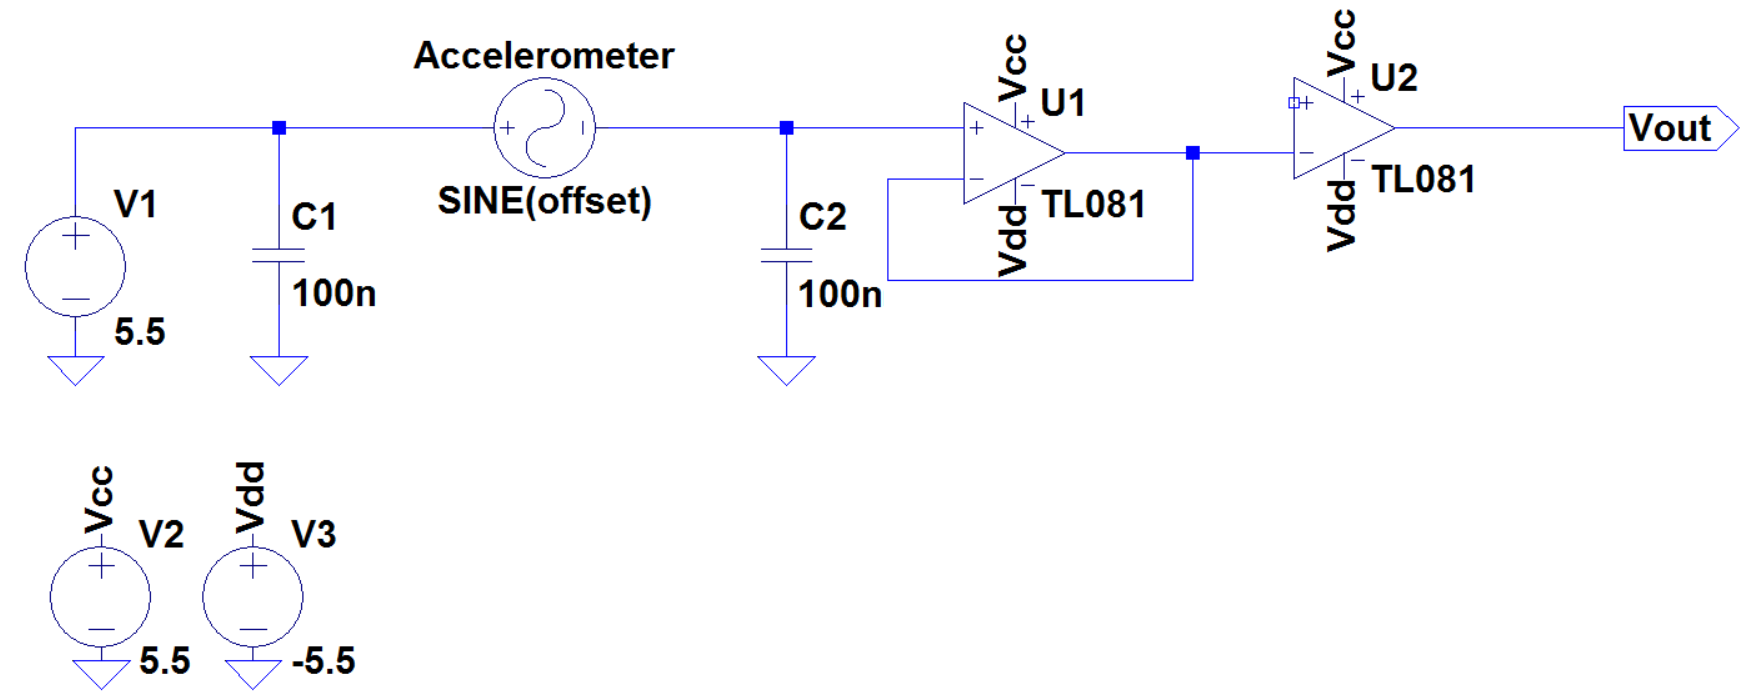
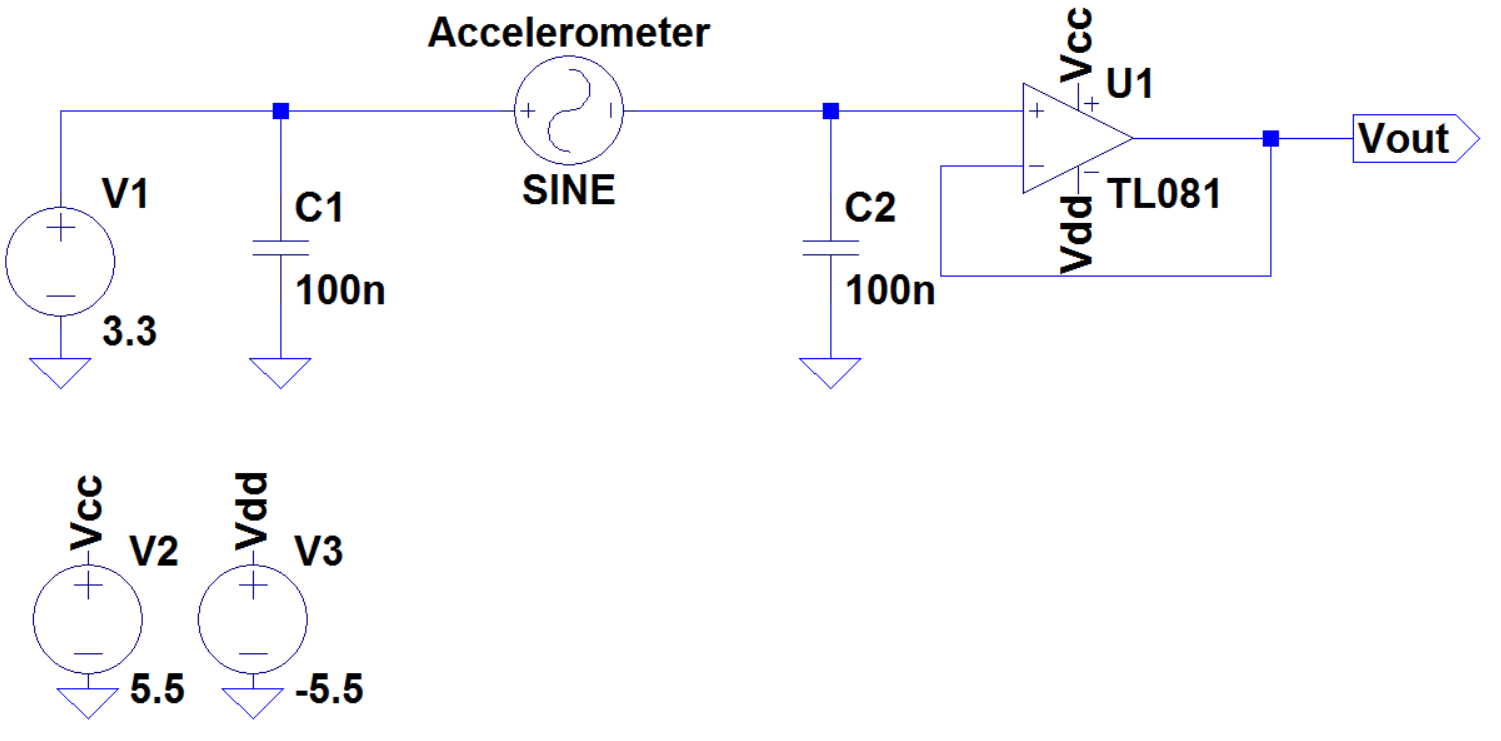
Mine opgaver

diff --git a/rapportAfsnit/eProblemloesning/Systembeskrivelse.tex b/rapportAfsnit/eProblemloesning/Systembeskrivelse.tex
@@ -29,7 +29,7 @@ Det valgte accelerometer af typen ADXL335, som fremgår af \figref{ADXL335}, er 
 	\label{ADXL335}
 \end{figure}
 
-\noindent Accelerometeret har en single-supply spændingsforsyning, der skal ligge mellem $1.8$ - $3.6$V. På accelerometeret er en regulator tilkoblet, som forhindrer en spændingsforsyning på over $3.3$V.  Arbejdsområdet ligger mellem $\pm3.6$g, og outputtet fra accelerometeret er maksimalt på $\pm1.188$V ift. accelerometerets indbyggede offset. Offsettet varierer efter spændingsforsyningen, men ligger ved $3$V forsyning på $1.5$V og beregnes ved $Off = Vs/2$. Båndbredden for x- og y-akserne ligger mellem $0.5$ til $1,600$Hz og for z-aksen mellem $0.5$ til $550$Hz. Støjen fra $X_{out}$ og $Y_{out}$ ligger normalt på $150\mu g/\sqrt{Hz}$ RMS, mens det for $Z_{out}$ ligger på $300\mu g/\sqrt{Hz}$ RMS. Denne enhed betyder, at den spektrale effekttæthed måles i $\mu g$ og dividerer dette med kvadratroden af båndbredden for signalet $\sqrt{Hz}$, hvilket giver RMS af accelerationsstøjen ved en temperatur på $25^\circ$C. Sensitiviteten afhænger, ligesom offsettet, af spændingsforsyningen, da accelerometeret er ratiometrisk\fxnote{NTK: Ratiometrisk vil sige, at output er direkte proportionelt med input.} og ligger ved $3$V forsyning på $300 mV/g$ med en tolerance på $\pm10\%$. Accelerometerets outputimpedans er $32K\Omega$ med en afvigelse på $\pm15\%$. \cite{Devices2009} %Outputtet ligger normalt ved -1.08g i X-aksen og  1.08g Y-aksen og 1.83 g ved Z-aksen. 
+\noindent Accelerometeret har en single-supply spændingsforsyning, der skal ligge mellem $1.8$ - $3.6$V. På accelerometeret er en regulator tilkoblet, som forhindrer en spændingsforsyning på over $3.3$V.  Arbejdsområdet ligger mellem $\pm3.6$g, og outputtet fra accelerometeret er maksimalt på $\pm1.188$V ift. accelerometerets indbyggede offset. Offsettet varierer efter spændingsforsyningen, men ligger ved $3$V forsyning på $1.5$V og beregnes ved $Off = Vs/2$. Båndbredden for x- og y-akserne ligger mellem $0.5$ til $1,600$Hz og for z-aksen mellem $0.5$ til $550$Hz. Støjen fra $X_{out}$ og $Y_{out}$ ligger normalt på $150\mu g/\sqrt{Hz}$ RMS, mens det for $Z_{out}$ ligger på $300\mu g/\sqrt{Hz}$ RMS. Denne enhed\fxnote{betyder, at den spektrale effekttæthed måles i $\mu g$ og dividerer dette med kvadratroden af båndbredden for signalet $\sqrt{Hz}$, hvilket} giver RMS af accelerationsstøjen ved en temperatur på $25^\circ$C. Sensitiviteten afhænger, ligesom offsettet, af spændingsforsyningen, da accelerometeret er ratiometrisk\fxnote{NTK: Ratiometrisk vil sige, at output er direkte proportionelt med input.} og ligger ved $3$V forsyning på $300 mV/g$ med en tolerance på $\pm10\%$. Accelerometerets outputimpedans er $32K\Omega$ med en afvigelse på $\pm15\%$. \cite{Devices2009} %Outputtet ligger normalt ved -1.08g i X-aksen og  1.08g Y-aksen og 1.83 g ved Z-aksen. 
 
 Når accelerometeret hældes til siden, vil en acceleration ske ift. tyngdekraften i en given retning, og dermed sker et udslag i volt fra referencepunktet ved en hældning på $0^{\circ}$. Hvis accelerometeret placeres i stilling $1$, som det fremgår til højre på \figref{ADXL335}, påvirkes x-aksen med $-1$g.\cite{Devices2009} \\
 På baggrund af sammenhængen mellem de enkelte parametre, der udtrykkes ved nedenstående ligninger, kan patientens hældning bestemmes.

diff --git a/rapportAfsnit/cProblemanalyse/Biofeedback.tex b/rapportAfsnit/cProblemanalyse/Biofeedback.tex
@@ -23,7 +23,7 @@ Ved brug af visuel feedback kræver det, at patienten kan registrere feedbacken 
 Biofeedback kan hjælpe patienter med at udvikle en bedre voluntær kontrol over kroppen samt genoptræne patienter til at bevare disse forbedringer uden brug af biofeedbacksystemet \cite{Prentice2007}. For at patienten kan modtage feedback, skal signalet måles på patienten og fortolkes. Der kan benyttes forskellige typer af sensorer til at opfange fysiologiske signaler fra patienterne, som kan deles ind i en fysiologisk og en biomekanisk del. \cite{Giggins2013}
 
 \subsection{Fysiologisk biofeedback}
-Fysiologisk biofeedback omfatter målinger på forskellige kropslige systemer. Det kan bl.a. måles på det neuromuskulære system, det kardiovaskulære system eller respirationssystemet. Fysiologisk feedback kan f.eks. anvendes til patienter med balanceproblemer baseret på elektromyografiske (EMG) målinger, hvor myoelektriske signaler omsættes til et elektrisk signal til patienten,  hvormed der kan opnås bevidsthed om svage muskler. Foruden EMG kan der anvendes hjerneaktivitet (EEG), øjenmuskelaktivitet (EOG) og hjerteaktivitet (EKG) til feedback til patienter med balanceproblemer, da disse måleparametre alle er dele af kroppens systemer og påvirkes, hvis kroppen er i ubalance. Sensoren, der benyttes, afhænger af, hvilken form for feedback der anvendes, samt hvad der ønskes målt på patienten. \cite{Prentice2007}
+Fysiologisk biofeedback omfatter målinger på forskellige kropslige systemer. Det kan bl.a. måles på det neuromuskulære system, det kardiovaskulære system eller respirationssystemet. Fysiologisk feedback kan f.eks. anvendes til patienter med balanceproblemer baseret på elektromyografiske (EMG) målinger, hvor myoelektriske signaler omsættes til et elektrisk signal til patienten,  hvormed der kan opnås bevidsthed om svage muskler. Foruden EMG kan der anvendes hjerneaktivitet (EEG) og øjenmuskelaktivitet (EOG) til feedback til patienter med balanceproblemer, da disse måleparametre alle er dele af kroppens systemer og påvirkes, hvis kroppen er i ubalance.\fxnote{NTK: EEG - forhøjet hjerneaktivitet visse steder i hjernen, da nogle centre ikke virker optimalt, så andre centre forsøger at kompensere. EOG - balanceprobelmer gør muligvis, at patienten har svært ved at fokusere, hvorfor øjnene vil køre rundt i hovedet" for at forsøge at finde et holdepunkt og skabe balance.} Sensoren, der benyttes, afhænger af, hvilken form for feedback der anvendes, samt hvad der ønskes målt på patienten. \cite{Prentice2007}
 
 %Desuden findes hjerterytme feedback, hvor patientens hjerterytme måles og udtrykkes på et udstyr der er synligt for patienten. Til patienter med sygdom i respirationssystemet kan anvendes respiratorisk feedback, som udtrykker værdier for de respiratoriske evner. \cite{Giggins2013} Foruden EMG, kan der næves hjerneaktivitet (EEG), øjenmuskelaktivitet (EOG) og hjerteaktivitet (EKG), som alle er en del af kroppens systemer, der kan blive påvirket, hvis kroppen er i ubalance. Hvilken sensor der skal bruges afhænger af, hvilken lidelse patienten har \cite{Prentice2007}.
 

diff --git a/rapportAfsnit/yBilag/PilotforsoegNy.tex b/rapportAfsnit/yBilag/PilotforsoegNy.tex
@@ -47,7 +47,7 @@ Opsætningen er udarbejdet både i LTspice og på breadboard \ref{pforsoeg1}. Op
 \begin{figure}[H]
 		\centering
 		\includegraphics[scale=0.4]{figures/Bilag/Test_opsaetning.PNG}
-		\caption{På figuren ses opsætningen i LTspice. Accerometeret er symboliseret med en sinuskurve med et DC offset svarende til den tilførte strømforsyning fratrukket offsettet fra accelerometeret ved $0$g påvirkning. Derudover angivet en amplitude svarende til den maksimale sensitivitet for accelerometeret, som findes i dette forsøg.}
+		\caption{På figuren ses opsætningen i LTspice. Accerometeret er symboliseret med en sinuskurve, der bliver forsynet med en spænding på $3.3$V. Derudover ses de to kapacitorer med $0.1\mu$F.}
 		\label{pLTspice}
 \end{figure}
 
@@ -86,7 +86,7 @@ Opsætningen er udarbejdet både i LTspice og på breadboard \ref{pforsoeg1}. Op
 \begin{figure}[H]
 	\centering
 	\includegraphics[scale=0.4]{figures/Bilag/Acc_medbuffer.png}
-	\caption{På figuren ses designet af pilotforsøget i LTspice.}
+	\caption{På figuren ses designet af pilotforsøget i LTspice, hvor bufferen er indsat for at sikre, at ADC'en ikke påvirker signalet.}
 	\label{pforsoeg1}
 \end{figure}
 

diff --git a/rapportAfsnit/eProblemloesning/Design/Accelerometer_test.tex b/rapportAfsnit/eProblemloesning/Design/Accelerometer_test.tex
@@ -12,7 +12,7 @@ Der findes ikke et accelerometer i LTspice, hvorfor accelerometeret er symbolise
 \begin{figure}[H]
 	\centering
 	\includegraphics[scale=.4]{figures/cProblemloesning/Acc_Simulering1.PNG}
-	\caption{På figuren ses designet af accelerometret i opsamlingsblokken i LTspice. Accerometeret er erstattet med en sinuskurve med et offset på $1.6325$V. Derudover indstilles amplituden til accelerometerets sensitivitet $0.3313$V og frekvensen til $10$Hz.}
+	\caption{På figuren ses designet af accelerometret i opsamlingsblokken i LTspice. Accerometeret er erstattet med en sinuskurve med et offset på $1.6325$V ($3.3$V-$1.6325$V=$1.6675$). Derudover indstilles amplituden til accelerometerets sensitivitet $0.3313$V og frekvensen til $10$Hz. På figures ses en buffer implementeret til outputtet, som er beskrevet og forklaret i bilag \ref{Bilag:Pilotforsoeg}, side \pageref{Bilag:Pilotforsoeg}.}
 	\label{fig:acc_simulering}
 \end{figure}
 \begin{figure}[H]
